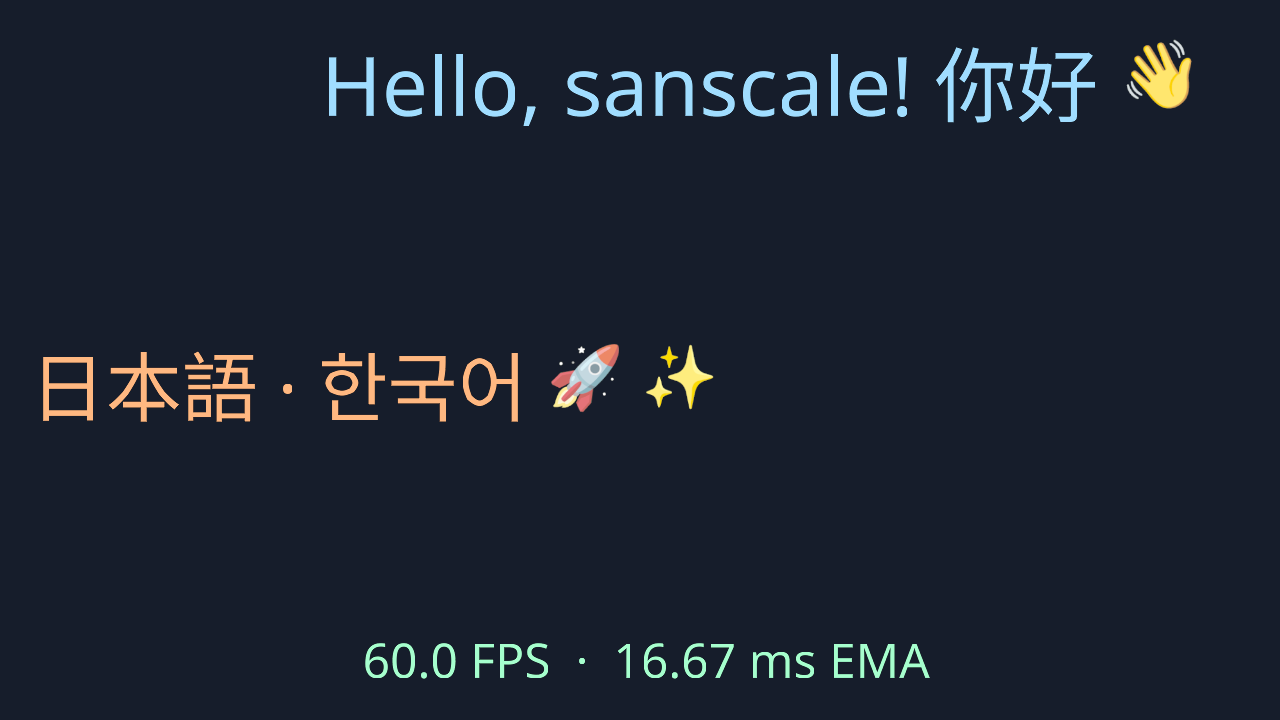
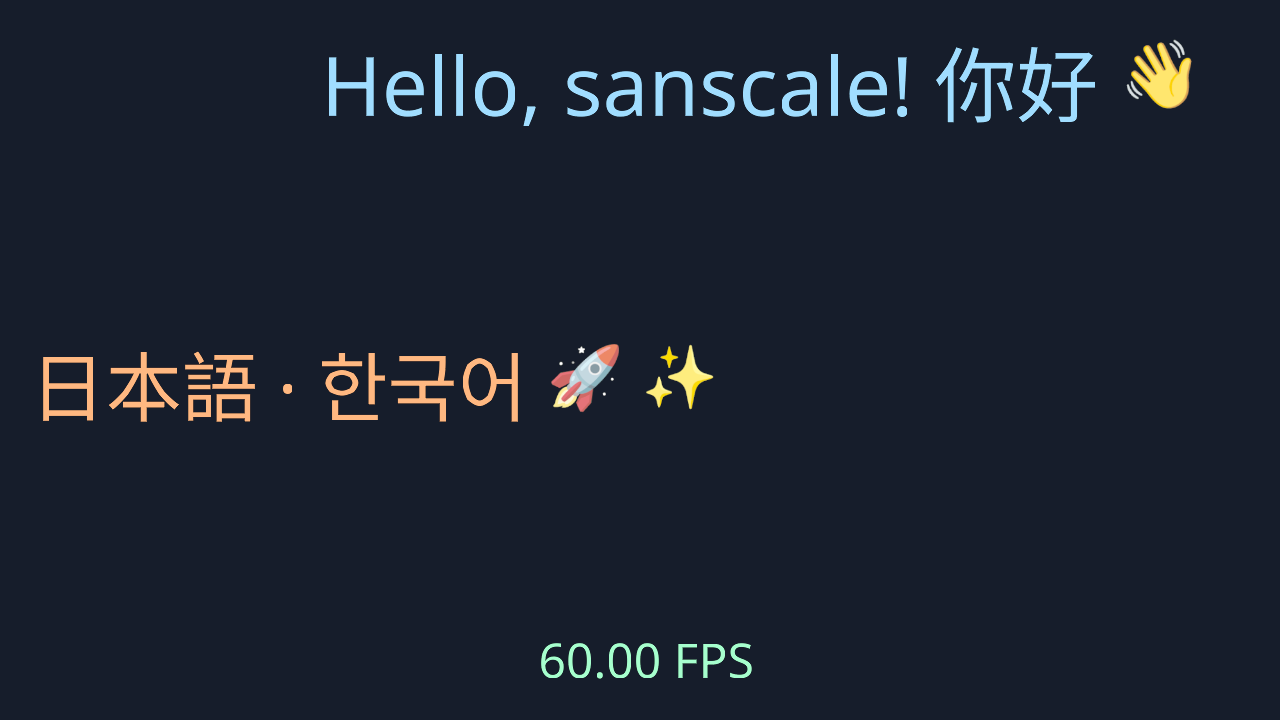
Keep hello FPS smoothing implicit

Changed region(s): [[0.2812, 0.8861, 0.75, 0.9472]]

diff --git a/examples/hello.rs b/examples/hello.rs
@@ -2,7 +2,7 @@
 //!
 //! Two large multilingual lines move every frame without reshaping. The FPS line
 //! changes through one stable block and paragraph slot; only its generation moves
-//! when the displayed EMA value changes.
+//! when the displayed value changes.
 //!
 //! Interactive: `cargo run --example hello`
 //! Preview PNG: `cargo run --example hello -- --dump`
@@ -90,7 +90,7 @@ impl Scene {
             )
             .expect("no usable system font found");
 
-        let fps_text = "60.0 FPS  ·  16.67 ms EMA".to_string();
+        let fps_text = "60.00 FPS".to_string();
         let fps_key = ParagraphKey {
             namespace: 0,
             slot: 2,
@@ -123,11 +123,7 @@ impl Scene {
         elapsed: f32,
         frame_seconds_ema: f32,
     ) -> [Draw; 3] {
-        let next_fps = format!(
-            "{:5.1} FPS  ·  {:5.2} ms EMA",
-            frame_seconds_ema.recip(),
-            frame_seconds_ema * 1000.0
-        );
+        let next_fps = format!("{:6.2} FPS", frame_seconds_ema.recip());
         if next_fps != self.fps_text {
             self.fps_text = next_fps;
             self.fps_generation = self.fps_generation.wrapping_add(1);

diff --git a/README.md b/README.md
@@ -97,7 +97,7 @@ Run an example with `cargo run --example <name>`. All four open a window; append
 
 | preview | example / focus |
 |---|---|
-| [![Hello](https://raw.githubusercontent.com/xpjb/sanscale/master/gallery/hello.png)](https://raw.githubusercontent.com/xpjb/sanscale/master/gallery/hello.png) | [`hello`](examples/hello.rs)<br>Large moving Unicode text and a live EMA FPS counter |
+| [![Hello](https://raw.githubusercontent.com/xpjb/sanscale/master/gallery/hello.png)](https://raw.githubusercontent.com/xpjb/sanscale/master/gallery/hello.png) | [`hello`](examples/hello.rs)<br>Large moving Unicode text and a live FPS counter |
 | [![Unicode](https://raw.githubusercontent.com/xpjb/sanscale/master/gallery/unicode.png)](https://raw.githubusercontent.com/xpjb/sanscale/master/gallery/unicode.png) | [`unicode`](examples/unicode.rs)<br>Zoomable, lazily populated map of Unicode planes 0–2 |
 | [![Emoji](https://raw.githubusercontent.com/xpjb/sanscale/master/gallery/emoji.png)](https://raw.githubusercontent.com/xpjb/sanscale/master/gallery/emoji.png) | [`emoji`](examples/emoji.rs)<br>Every RGI emoji sequence, grouped like a picker |
 | [![Editor](https://raw.githubusercontent.com/xpjb/sanscale/master/gallery/editor.png)](https://raw.githubusercontent.com/xpjb/sanscale/master/gallery/editor.png) | [`editor`](examples/editor.rs)<br>Rope-backed notepad dogfooding caret, selection, hit-testing, and invalidation |
@@ -106,9 +106,8 @@ Regenerate every committed preview with `scripts/update-gallery.sh`; broad
 Latin, CJK, Indic, symbol, and color-emoji system fonts are required.
 
 `hello` is the smallest live application: two large CJK-and-emoji lines move by
-changing only their draw positions, while a stable block displays FPS from an
-exponential moving average of frame time. Its paragraph generation changes only
-when the displayed value changes.
+changing only their draw positions, while a stable block displays live FPS. Its
+paragraph generation changes only when the displayed value changes.
 
 `unicode` opens a window: a
 Unifont-style 256-column map of the entire Unicode codespace — code point =
